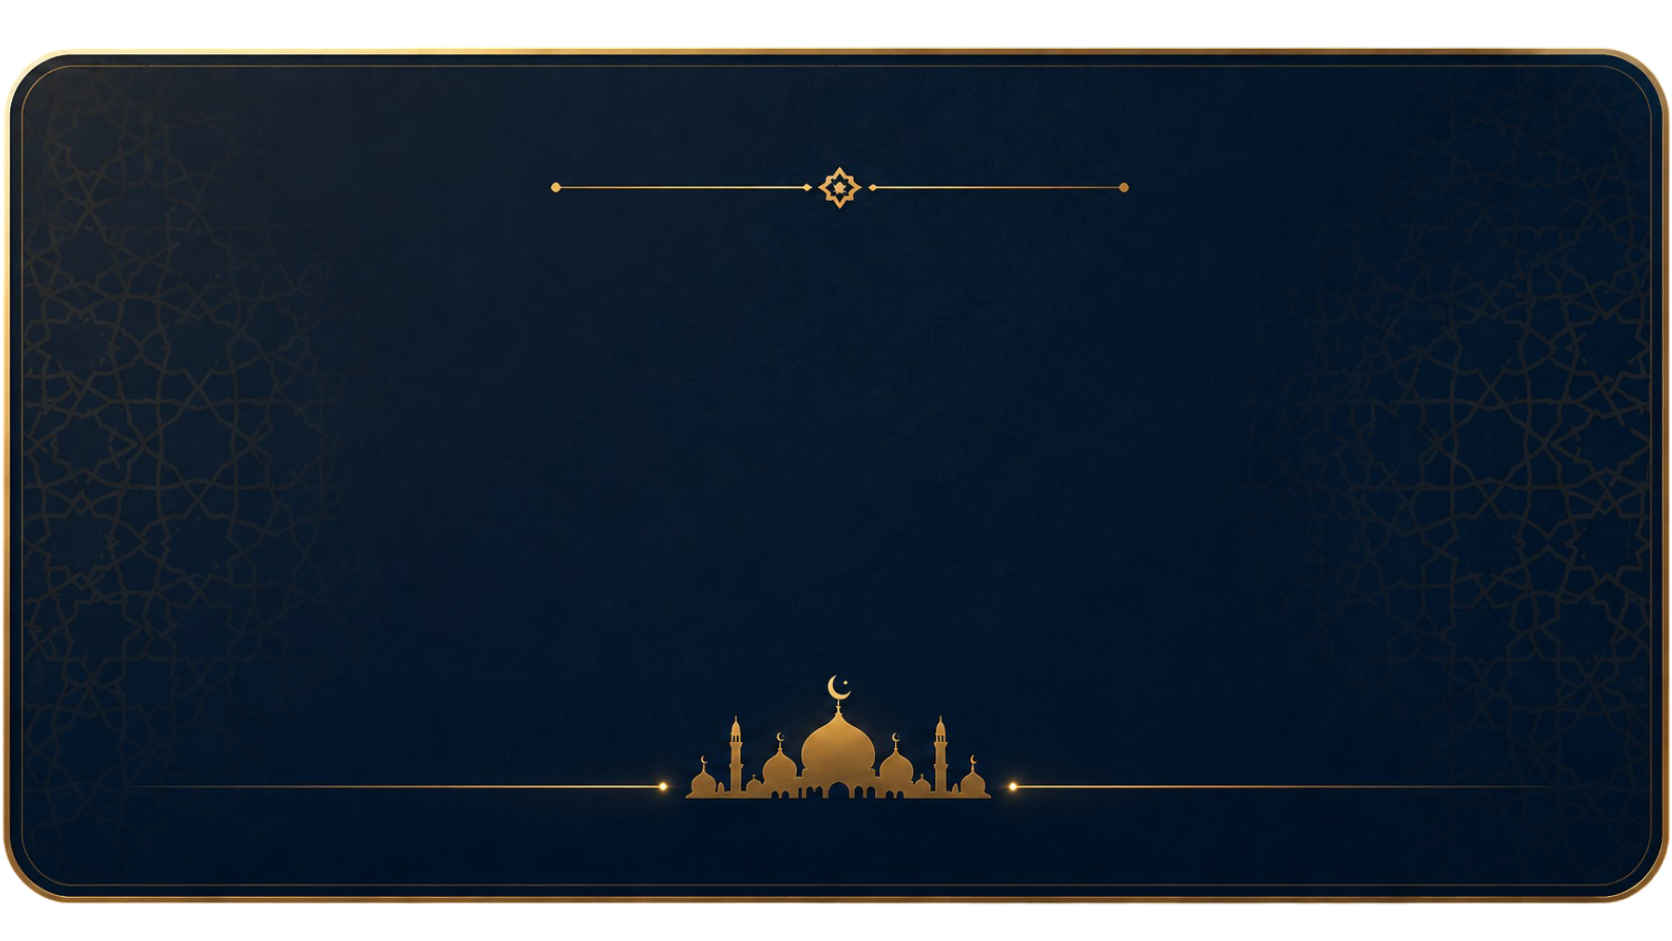
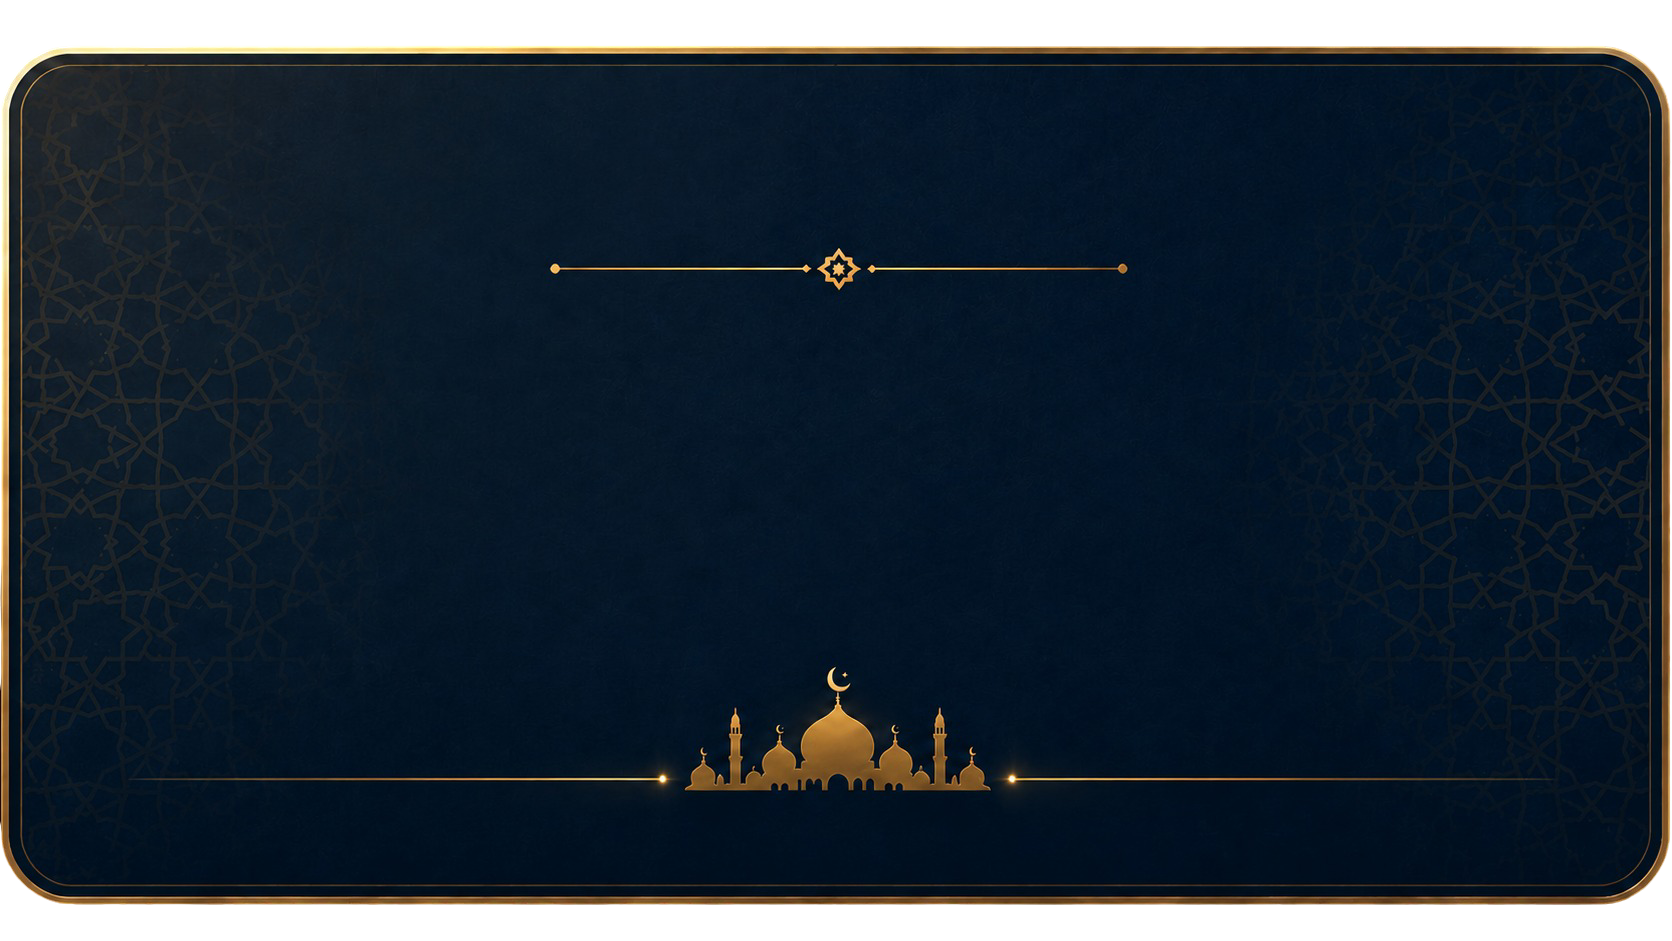
Bake edited widget themes as defaults

diff --git a/Models/AppSettings.cs b/Models/AppSettings.cs
@@ -29,7 +29,7 @@ public sealed class AppSettings
     public bool ShowIqamahCountdownAfterAdhan { get; set; } = true;
     public string WidgetPlacement { get; set; } = WidgetPlacementOptions.AboveTaskbar;
     public string WidgetTheme { get; set; } = WidgetThemeOptions.GoldDarkBlue;
-    public Dictionary<string, WidgetThemeCustomization> WidgetThemeCustomizations { get; set; } = new(StringComparer.OrdinalIgnoreCase);
+    public Dictionary<string, WidgetThemeCustomization> WidgetThemeCustomizations { get; set; } = CreateDefaultWidgetThemeCustomizations();
     public Dictionary<string, int> IqamahOffsetsMinutes { get; set; } = CreateDefaultIqamahOffsets();
     public Dictionary<string, int> PrayerAdjustmentsMinutes { get; set; } = CreateDefaultPrayerAdjustments();
 
@@ -75,6 +75,172 @@ public sealed class AppSettings
         ["Isha"] = 0
     };
 
+    public static Dictionary<string, WidgetThemeCustomization> CreateDefaultWidgetThemeCustomizations() => new(StringComparer.OrdinalIgnoreCase)
+    {
+        [WidgetThemeOptions.GoldDarkBlue] = new WidgetThemeCustomization
+        {
+            Width = 260,
+            Height = 145,
+            ShadowAlpha = 82,
+            ShadowOffsetX = 1,
+            ShadowOffsetY = 1,
+            ShadowBlur = 0,
+            GlowAlpha = 135,
+            GlowBlur = 0,
+            GlowColor = "#EDBC5C",
+            Elements = new Dictionary<string, WidgetTextCustomization>(StringComparer.OrdinalIgnoreCase)
+            {
+                ["Primary"] = new()
+                {
+                    X = 76, Y = 28, Width = 262, Height = 26,
+                    FontSize = 17, FontFamily = "Raleway", Color = "#EDBC5C",
+                    Alignment = "Center", Bold = false, Visible = true,
+                    ShadowAlpha = 0, ShadowOffsetX = 1, ShadowOffsetY = 1, ShadowBlur = 2,
+                    GlowAlpha = 0, GlowBlur = 0, GlowColor = "#EDBC5C"
+                },
+                ["Time"] = new()
+                {
+                    X = 268, Y = 36, Width = 104, Height = 24,
+                    FontSize = 14.5F, FontFamily = "Raleway", Color = "#C4A05C",
+                    Alignment = "Far", Bold = false, Visible = false,
+                    ShadowAlpha = 0, ShadowOffsetX = 1, ShadowOffsetY = 1, ShadowBlur = 2,
+                    GlowAlpha = 0, GlowBlur = 0, GlowColor = "#C4A05C"
+                },
+                ["Countdown"] = new()
+                {
+                    X = 19, Y = 76, Width = 385, Height = 98,
+                    FontSize = 51, FontFamily = "Century Gothic", Color = "#ECB755",
+                    Alignment = "Center", Bold = false, Visible = true,
+                    ShadowAlpha = 0, ShadowOffsetX = 1, ShadowOffsetY = 1, ShadowBlur = 2,
+                    GlowAlpha = 48, GlowBlur = 3, GlowColor = "#FFEDC6"
+                },
+                ["Location"] = new()
+                {
+                    X = 36, Y = 201, Width = 343, Height = 22,
+                    FontSize = 13, FontFamily = "Raleway", Color = "#ECCD8F",
+                    Alignment = "Center", Bold = false, Visible = true,
+                    ShadowAlpha = 0, ShadowOffsetX = 1, ShadowOffsetY = 1, ShadowBlur = 2,
+                    GlowAlpha = 0, GlowBlur = 0, GlowColor = "#ECCD8F"
+                },
+                ["Detail"] = new()
+                {
+                    X = 48, Y = 160, Width = 220, Height = 21,
+                    FontSize = 7.5F, FontFamily = "Segoe UI", Color = "#C4A05C",
+                    Alignment = "Near", Visible = false
+                }
+            }
+        },
+        [WidgetThemeOptions.Glassy] = new WidgetThemeCustomization
+        {
+            Width = 260,
+            Height = 145,
+            ShadowAlpha = 76,
+            ShadowOffsetX = 1,
+            ShadowOffsetY = 1,
+            ShadowBlur = 2,
+            GlowAlpha = 0,
+            GlowBlur = 0,
+            GlowColor = "#71F8FF",
+            Elements = new Dictionary<string, WidgetTextCustomization>(StringComparer.OrdinalIgnoreCase)
+            {
+                ["Primary"] = new()
+                {
+                    X = 21, Y = 33, Width = 180, Height = 33,
+                    FontSize = 22.5F, FontFamily = "Bahnschrift SemiCondensed", Color = "#71F8FF",
+                    Alignment = "Near", Bold = false, Visible = true,
+                    ShadowAlpha = 138, ShadowOffsetX = 1, ShadowOffsetY = 1, ShadowBlur = 2,
+                    GlowAlpha = 0, GlowBlur = 0, GlowColor = "#71F8FF"
+                },
+                ["Time"] = new()
+                {
+                    X = 245, Y = 34, Width = 146, Height = 33,
+                    FontSize = 22.5F, FontFamily = "Bahnschrift SemiCondensed", Color = "#8FC5CF",
+                    Alignment = "Far", Bold = false, Visible = true,
+                    ShadowAlpha = 147, ShadowOffsetX = 1, ShadowOffsetY = 1, ShadowBlur = 2,
+                    GlowAlpha = 0, GlowBlur = 0, GlowColor = "#8FC5CF"
+                },
+                ["Countdown"] = new()
+                {
+                    X = 33, Y = 86, Width = 354, Height = 81,
+                    FontSize = 57.5F, FontFamily = "Bahnschrift SemiCondensed", Color = "#EBFFFF",
+                    Alignment = "Center", Bold = false, Visible = true,
+                    ShadowAlpha = 0, ShadowOffsetX = 1, ShadowOffsetY = 1, ShadowBlur = 0,
+                    GlowAlpha = 69, GlowBlur = 6, GlowColor = "#71F8FF"
+                },
+                ["Location"] = new()
+                {
+                    X = 38, Y = 188, Width = 348, Height = 22,
+                    FontSize = 16, FontFamily = "Bahnschrift SemiCondensed", Color = "#AEEAF0",
+                    Alignment = "Center", Bold = false, Visible = true,
+                    ShadowAlpha = 0, ShadowOffsetX = 1, ShadowOffsetY = 1, ShadowBlur = 2,
+                    GlowAlpha = 0, GlowBlur = 0, GlowColor = "#AEEAF0"
+                },
+                ["Detail"] = new()
+                {
+                    X = 42, Y = 158, Width = 224, Height = 18,
+                    FontSize = 7.5F, FontFamily = "Segoe UI", Color = "#8FC5CF",
+                    Alignment = "Near", Bold = false, Visible = false
+                }
+            }
+        },
+        [WidgetThemeOptions.DarkPurple] = new WidgetThemeCustomization
+        {
+            Width = 260,
+            Height = 145,
+            Elements = new Dictionary<string, WidgetTextCustomization>(StringComparer.OrdinalIgnoreCase)
+            {
+                ["Primary"] = new()
+                {
+                    X = 21, Y = 29, Width = 190, Height = 35,
+                    FontSize = 21, FontFamily = "Bahnschrift SemiCondensed", Color = "#C284FF",
+                    Alignment = "Near", Bold = false, Visible = true,
+                    ShadowAlpha = 0, ShadowOffsetX = 1, ShadowOffsetY = 1, ShadowBlur = 2,
+                    GlowAlpha = 0, GlowBlur = 0, GlowColor = "#C284FF"
+                },
+                ["Time"] = new()
+                {
+                    X = 291, Y = 30, Width = 112, Height = 37,
+                    FontSize = 21, FontFamily = "Bahnschrift SemiCondensed", Color = "#948BDC",
+                    Alignment = "Far", Bold = false, Visible = true,
+                    ShadowAlpha = 0, ShadowOffsetX = 1, ShadowOffsetY = 1, ShadowBlur = 2,
+                    GlowAlpha = 0, GlowBlur = 0, GlowColor = "#948BDC"
+                },
+                ["Countdown"] = new()
+                {
+                    X = 11, Y = 85, Width = 354, Height = 98,
+                    FontSize = 60.5F, FontFamily = "Bahnschrift SemiCondensed", Color = "#F6F1FF",
+                    Alignment = "Near", Bold = true, Visible = true,
+                    ShadowAlpha = 0, ShadowOffsetX = 1, ShadowOffsetY = 1, ShadowBlur = 2,
+                    GlowAlpha = 60, GlowBlur = 3, GlowColor = "#C284FF"
+                },
+                ["Location"] = new()
+                {
+                    X = 22, Y = 187, Width = 339, Height = 28,
+                    FontSize = 14.5F, FontFamily = "Bahnschrift SemiCondensed", Color = "#CDB9FF",
+                    Alignment = "Near", Bold = false, Visible = true,
+                    ShadowAlpha = 0, ShadowOffsetX = 1, ShadowOffsetY = 1, ShadowBlur = 2,
+                    GlowAlpha = 0, GlowBlur = 0, GlowColor = "#CDB9FF"
+                },
+                ["Detail"] = new()
+                {
+                    X = 26, Y = 225, Width = 210, Height = 18,
+                    FontSize = 7.5F, FontFamily = "Segoe UI", Color = "#948BDC",
+                    Alignment = "Near", Bold = false, Visible = false,
+                    ShadowAlpha = 0, ShadowOffsetX = 1, ShadowOffsetY = 1, ShadowBlur = 2,
+                    GlowAlpha = 0, GlowBlur = 0, GlowColor = "#948BDC"
+                }
+            }
+        }
+    };
+
+    public static WidgetThemeCustomization? CreateDefaultWidgetThemeCustomization(string themeKey)
+    {
+        Dictionary<string, WidgetThemeCustomization> defaults = CreateDefaultWidgetThemeCustomizations();
+        return defaults.TryGetValue(themeKey, out WidgetThemeCustomization? customization)
+            ? customization.Clone()
+            : null;
+    }
+
     public int GetIqamahOffset(string prayerName)
     {
         if (IqamahOffsetsMinutes.TryGetValue(prayerName, out int minutes))
@@ -100,6 +266,23 @@ public sealed class AppSettings
         IqamahOffsetsMinutes ??= CreateDefaultIqamahOffsets();
         PrayerAdjustmentsMinutes ??= CreateDefaultPrayerAdjustments();
         WidgetThemeCustomizations ??= new Dictionary<string, WidgetThemeCustomization>(StringComparer.OrdinalIgnoreCase);
+
+        foreach (var pair in CreateDefaultWidgetThemeCustomizations())
+        {
+            if (!WidgetThemeCustomizations.TryGetValue(pair.Key, out WidgetThemeCustomization? existing))
+            {
+                WidgetThemeCustomizations[pair.Key] = pair.Value.Clone();
+                continue;
+            }
+
+            existing.Width ??= pair.Value.Width;
+            existing.Height ??= pair.Value.Height;
+            existing.Elements ??= new Dictionary<string, WidgetTextCustomization>(StringComparer.OrdinalIgnoreCase);
+            foreach (var elementPair in pair.Value.Elements)
+            {
+                existing.Elements.TryAdd(elementPair.Key, elementPair.Value.Clone());
+            }
+        }
 
         foreach (var pair in CreateDefaultIqamahOffsets())
         {

diff --git a/UI/ThemeEditorForm.cs b/UI/ThemeEditorForm.cs
@@ -383,7 +383,17 @@ public sealed class ThemeEditorForm : Form
 
     private void ResetTheme()
     {
-        Settings.WidgetThemeCustomizations.Remove(CurrentTheme().Key);
+        string themeKey = CurrentTheme().Key;
+        WidgetThemeCustomization? defaultCustomization = AppSettings.CreateDefaultWidgetThemeCustomization(themeKey);
+        if (defaultCustomization is null)
+        {
+            Settings.WidgetThemeCustomizations.Remove(themeKey);
+        }
+        else
+        {
+            Settings.WidgetThemeCustomizations[themeKey] = defaultCustomization;
+        }
+
         LoadTheme();
     }
 
